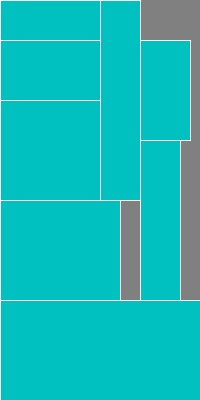
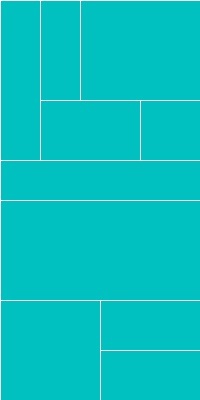
0114 完成 BRKGA

Changed region(s): [[0.0, 0.0, 1.0, 0.75], [0.48, 0.75, 1.0, 1.0]]

diff --git a/2DBinPacking/src/BRKGA.py b/2DBinPacking/src/BRKGA.py
@@ -1,14 +1,130 @@
+import numpy as np
+import copy
+import random
+
+from src.BinPack import *
 
 class BRKGA():
-    def __init__(self, data, num_generations = 200, p = 100, p_elite = 100*0.25, p_mutant = 100*0.1, elite_inheritance_prob = 0.8):
-        self.data = data # 排程輸入資料
+    def __init__(self, data, num_generations = 200, p = 100, num_elites = 100*0.25, num_mutants = 100*0.1, elite_inheritance_prob = 0.8):
+        self.data = copy.deepcopy(data) # 排程輸入資料
 
         # Configuration
         self.num_generations = num_generations # num of generation
-        self.p = p # size of population
-        self.p_elite = p_elite # size of elite population
-        self.p_mutant = p_mutant # size of mutant population
+        self.gene_len = self.data.num_jobs
+        self.p = int(p) # size of population
+        self.num_elites = int(num_elites) # size of elite population
+        self.num_mutants = int(num_mutants) # size of mutant population
         self.elite_inheritance_prob = elite_inheritance_prob # elite allel inheritance prob
+
+        # Results
+        self.solution = None
+        self.B_EMSs = None
+        self.jobResults = None
+        self.used_bin = -1
+
+        self.best_fitness = -1
+        self.history = { "mean" : [], "min" : [] }
+
+    def getBestSolution(self, best_gene):
+        # 產生 Job sequence
+        job_sequence = np.argsort(best_gene[:])
+        # BFF演算法擺放 回傳solution
+        solution, B_EMSs, jobResults, max_opened_batch_no = BFF_Heuristic(job_sequence, self.data)
+        # 針對BFF結果( 回傳 list = [ 剩餘空間, 使用bin數 ] )
+        fitness = evaluate_fitnesses(self.data.job_total_area, max_opened_batch_no, self.data.BIN_AREA)
+
+        ## solution = [job_no, batch_no, orientation, x1, y1, x2, y2]
+        ## B_EMSs = { batch_no : ems_object}
+        ## jobResults = { job_no : job_object (filled information with coordinate) }
+        return solution, B_EMSs, jobResults, fitness[1]
+
+    def cal_fitness(self, population):
+        fitness_list = []
+        for ind in population:
+            # 產生 Job sequence
+            job_sequence = np.argsort(ind[:])
+            # BFF演算法擺放 回傳solution
+            solution, B_EMSs, jobResults, max_opened_batch_no = BFF_Heuristic(job_sequence, self.data)
+            # 針對BFF結果( 回傳 list = [ 剩餘空間, 使用bin數 ] )
+            fitness = evaluate_fitnesses(self.data.job_total_area, max_opened_batch_no, self.data.BIN_AREA)
+            # fitness value = 剩餘空間
+            fitness_list.append(fitness[0])
+        
+        fitness_list = np.array(fitness_list).reshape((len(population), 1))
+        return fitness_list
+
+    def partition(self, population, fitness_list):
+        "population 區分出 elites , non_elites 並儲存elite_fitness_list"
+        sorted_indexs = np.argsort(fitness_list)
+        sorted_indexs = [x.item() for x in sorted_indexs] # convert np.int64 to int
+        return population[sorted_indexs[:self.num_elites]], population[sorted_indexs[self.num_elites:]], fitness_list[sorted_indexs[:self.num_elites]]
+
+    def crossover(self, elite, non_elite):
+        return [elite[i] if np.random.uniform(low=0.0, high=1.0) < self.elite_inheritance_prob else non_elite[i] for i in range(self.gene_len)]
+
+    def mating(self, elites, non_elites):
+        num_offspring = self.p - self.num_elites - self.num_mutants
+        # selected_elite = random.choice(elites)
+        # selected_non_elite = random.choice(non_elites)
+        return [self.crossover(random.choice(elites), random.choice(non_elites)) for i in range(num_offspring)]
+
+    def mutants(self):
+        return np.random.uniform(low=0.0, high=1.0, size=(self.num_mutants, self.gene_len))
+
+    def run(self, patient_generation = 10):
+        "直接在 外面main call model.run() (BRKGA object)"
+        
+        print(" === Start to run BRKGA === ")
+        # Initialize 
+        ## population & fitness
+        population = np.random.uniform(low=0.0, high=1.0, size=(self.p, self.gene_len))
+        fitness_list = self.cal_fitness(population)
+
+        ## Record best result
+        best_fitness = np.min(fitness_list)
+        best_gene = population[np.argmin(fitness_list)]
+        self.history['min'].append(np.min(fitness_list))
+        self.history['mean'].append(np.mean(fitness_list))
+
+        # Start run generations
+        best_generation = 0
+        for g in range(self.num_generations):
+            
+            # Early stopping condition ( & return 'feasible')
+            
+            # Partition elite, non_elite group And select elite fitness list (複製全部菁英)
+            elites, non_elites, elite_fitness_list = self.partition(population, fitness_list)
+
+            # Biased mating & crossover (菁英與非菁英交配)
+            offsprings = self.mating(elites, non_elites)
+
+            # Generate mutants (突變)
+            mutants = self.mutants()
+
+            # New Population & fitness
+            offsprings = np.concatenate((mutants,offsprings), axis=0)
+            offspring_fitness_list = self.cal_fitness(offsprings)
+            population = np.concatenate((elites, offsprings), axis = 0)
+            fitness_list = np.concatenate((elite_fitness_list, offspring_fitness_list), axis = 0)
+
+            # Update Best Fitness
+            for fitness in fitness_list:
+                if fitness < best_fitness:
+                    best_generation = g
+                    best_fitness = fitness
+                    best_gene = population[np.argmin(fitness_list)]
+
+            # 紀錄當下generation結果
+            self.history['min'].append(np.min(fitness_list))
+            self.history['mean'].append(np.mean(fitness_list))
+            print("Generation : {} \t( Best Fitness: {} )".format(g, best_fitness))
+
+        # 將BRKGA演算結果存回model物件內
+        #self.used_bins = math.floor(best_fitness)
+        self.best_fitness = best_fitness
+        self.solution, self.B_EMSs, self.jobResults, self.used_bin = self.getBestSolution(best_gene)
+        # return 'feasible'
+        return "feasible"
 
 
 

diff --git a/2DBinPacking/src/BinPack.py b/2DBinPacking/src/BinPack.py
@@ -39,17 +39,14 @@ class Job():
                 results.append([True, o, min(ems.W - tmp_w, ems.H - tmp_h), ems.id])
         
         # 篩選 選取最佳擺放方式與結果
-        #print(results)
         true_results = [res for res in results if res[0] == True]
-        #print("true_results: ", true_results)
         if len(true_results) == 0:
             return [False, -1, -1, -1]
         else:
             true_results = sorted(true_results, key = lambda s: s[2])
-            #print("sorted true_results: ", true_results)
             return true_results[0]
     
-    def putInChoosedEMSAndUpdateSolution(self, choosed_ems, final_placement, solution):
+    def putInChoosedEMSAndUpdateSolution(self, choosed_ems, final_placement, solution, print_step = False):
         """
         append new placement to solution
         :param param1: final_placement = ['is_accommodated?', 'orientation', 'min_value', ems_id]
@@ -67,7 +64,8 @@ class Job():
         self.x1, self.y1 = choosed_ems.x1, choosed_ems.y1
         self.x2, self.y2 = choosed_ems.x1 + tmp_w, choosed_ems.y1 + tmp_h
         self.batch_no = choosed_ems.batch_no
-        print("更新 job_id : {} 物件資訊 ---> 放置於 batch_no : {} 擺放座標為 ({}, {}), ({}, {})".format(self.no, self.batch_no, self.x1, self.y1, self.x2, self.y2))
+        if print_step:
+            print("更新 job_id : {} 物件資訊 ---> 放置於 batch_no : {} 擺放座標為 ({}, {}), ({}, {})".format(self.no, self.batch_no, self.x1, self.y1, self.x2, self.y2))
         return solution, self
 
 class EMS():
@@ -115,7 +113,6 @@ def largest_area_sort(job_dict):
     for key, item in job_dict.items():
         area_list.append(item.w*item.h)
 
-    #print("area_list: ", area_list)
     job_sequence = sorted(range(len(area_list)), key=lambda k: area_list[k], reverse=True) # 由大到小排列
     return job_sequence
 
@@ -157,7 +154,11 @@ def is_inscribed(new_ems, another_ems):
     return False
 
 def is_selfelimination(new_ems):
+    # 一直線
     if (new_ems.x1 == new_ems.x2) or (new_ems.y1 == new_ems.y2):
+        return True
+    # 不合理解 (x2,y2) 位於 (x1,y1) 左或下
+    if (new_ems.x2 < new_ems.x1) or (new_ems.y2 < new_ems.y1):
         return True
     return False
 
@@ -174,17 +175,14 @@ def updateEMSs(job, batch_no, exisiting_ems):
     
     EMSs = exisiting_ems[batch_no].copy()
     result_EMSs = EMSs.copy()
-
     for ems in EMSs.copy():
         
         # 檢查現存ems是否跟job疊到
         if is_overlap(job, ems):
             # 刪除此ems 更新exisiting_ems
             result_EMSs = deleteEMSById(result_EMSs, ems.id)
-        
             # 新增4個新的ems
             new_EMSs = generateNewEMS(job, ems)
-
             # 檢查新的ems 是否合理 是則加入result_EMSs
             for new_ems in new_EMSs:
                 isValid = True
@@ -199,18 +197,18 @@ def updateEMSs(job, batch_no, exisiting_ems):
                 # 加入result_EMSs
                 if isValid:
                     result_EMSs.append(new_ems)
-    
     # 依照ems大小排序過後 更新B_EMSs資料結構
     result_EMSs = sortEMSsByArea(result_EMSs)
     exisiting_ems[batch_no] = result_EMSs.copy()
     return exisiting_ems
 
-def BFF_Heuristic(jobNo_sequence, data):
+def BFF_Heuristic(jobNo_sequence, data, print_step = False):
     """
     Best First Fit(BFF) Bin Packing Heuristic
     逐一搜尋所有可放進的ems，並選擇放入剩餘邊長最小者: 旋轉過後 min(W-w, H-h)
     """
-    print("=== 開始BFF擺放 ===")
+    if print_step:
+        print("=== 開始BFF擺放 ===")
     # Initialize
     jobNo_sequence_list = jobNo_sequence.copy()
     B_EMSs = {}     # open batches records remain EMSs by list {batch_no : [ems1, ems2, ...]}
@@ -266,12 +264,13 @@ def BFF_Heuristic(jobNo_sequence, data):
         choosed_ems = getEMSById(B_EMSs, choosed_ems_id)
 
         # Place job into choosed ems and Update solution
-        solution, job = job.putInChoosedEMSAndUpdateSolution(choosed_ems, final_placement, solution)
+        solution, job = job.putInChoosedEMSAndUpdateSolution(choosed_ems, final_placement, solution, print_step)
         jobResults[job_no] = job
 
         # Update(Merge) EMSs in choosed batch(bin)
         B_EMSs = updateEMSs(job, choosed_ems.batch_no, B_EMSs)
-    print("=== 擺放演算完成 ===")
+    if print_step:
+        print("=== 擺放演算完成 ===")
     return solution, B_EMSs, jobResults, batch_no
 
 def evaluate_fitnesses(job_total_area, max_opened_batch_no, bin_area):

diff --git a/2DBinPacking/main.py b/2DBinPacking/main.py
@@ -1,8 +1,10 @@
 import time
 from PIL import Image, ImageDraw
+import pprint
 
 from src.DataProcess import DataProcess
 from src.BinPack import *
+from src.BRKGA import *
 
 if __name__ == "__main__":
     # Time Calculate
@@ -10,21 +12,24 @@ if __name__ == "__main__":
 
     # DataProcess
     data = DataProcess(config_path="src/config.txt")
-    print("JOBS_dict: ", data.instanceDict['JOBS'])
+    
+    print("Jobs Information: ")
+    pprint.pprint(data.instanceDict['JOBS'])
 
     # METHOD 1 : HEURISTIC METHOD
     ## Step1 Job Sequence (Largest Size)
-    job_sequence = largest_area_sort(data.instanceDict['JOBS'])
-    print("job sequence(sorted by area large to small): ", job_sequence)
+    #job_sequence = largest_area_sort(data.instanceDict['JOBS'])
+    #print("job sequence(sorted by area large to small): ", job_sequence)
+    ##TEST:job_sequence = [4, 0, 1, 2, 3, 5, 6, 7, 8, 9]
 
     ## Step2 Apply BFF with ordered Job Sequence
     # solution = [job_no, batch_no, orientation, x1, y1, x2, y2]
     # B_EMSs = { batch_no : ems_object}
     # jobResults = { job_no : job_object (filled information with coordinate) }
     
-    solution, B_EMSs, jobResults, max_opened_batch_no = BFF_Heuristic(job_sequence, data)
-    fitness = evaluate_fitnesses(data.job_total_area, max_opened_batch_no, data.BIN_AREA)
-    print("fitness : 剩餘空間為 {} , 共使用 {} 個bin".format(fitness[0], fitness[1]))
+    #solution, B_EMSs, jobResults, max_opened_batch_no = BFF_Heuristic(job_sequence, data)
+    #fitness = evaluate_fitnesses(data.job_total_area, max_opened_batch_no, data.BIN_AREA)
+    #print("fitness : 剩餘空間為 {} , 共使用 {} 個bin".format(fitness[0], fitness[1]))
 
 
     ## draw rectangle
@@ -39,6 +44,21 @@ if __name__ == "__main__":
     print()
 
     # METHOD 2 : BRKGA
+    BRKGA_model = BRKGA(data, num_generations = 50, p = 100, num_elites = 100*0.25, num_mutants = 100*0.1, elite_inheritance_prob = 0.8)
+    BRKGA_model.run()
+    solution = BRKGA_model.solution
+
+    ## draw rectangle
+    im = Image.new('RGB', (data.WBIN, data.HBIN), (128, 128, 128))
+    draw = ImageDraw.Draw(im)
+    for job_sol in solution:
+        if job_sol[1] == 0:
+            print("draw job {}".format(job_sol[0]))
+            draw.rectangle((job_sol[3], data.HBIN - job_sol[4], job_sol[5], data.HBIN - job_sol[6]), fill=(0, 192, 192), outline=(255, 255, 255))
+    im.show()
+    im.save('pillow_imagedraw.jpg', quality=95)
+    
 
     # End Program
     print("Spent {} second(s)".format(time.time() - START))
+    print()

diff --git a/2DBinPacking/src/DataProcess.py b/2DBinPacking/src/DataProcess.py
@@ -1,11 +1,11 @@
 
-
 from src.BinPack import *
 
 class DataProcess():
     def __init__(self, config_path):
         self.config = self.LoadConfig(config_path)
         self.instanceDict, self.job_total_area = self.LoadInstance(self.config['instance_filename'])
+        self.num_jobs = len(self.instanceDict['JOBS'])
         self.WBIN = self.instanceDict['HBIN,WBIN'][1]
         self.HBIN = self.instanceDict['HBIN,WBIN'][0]
         self.BIN_AREA = self.WBIN*self.HBIN
